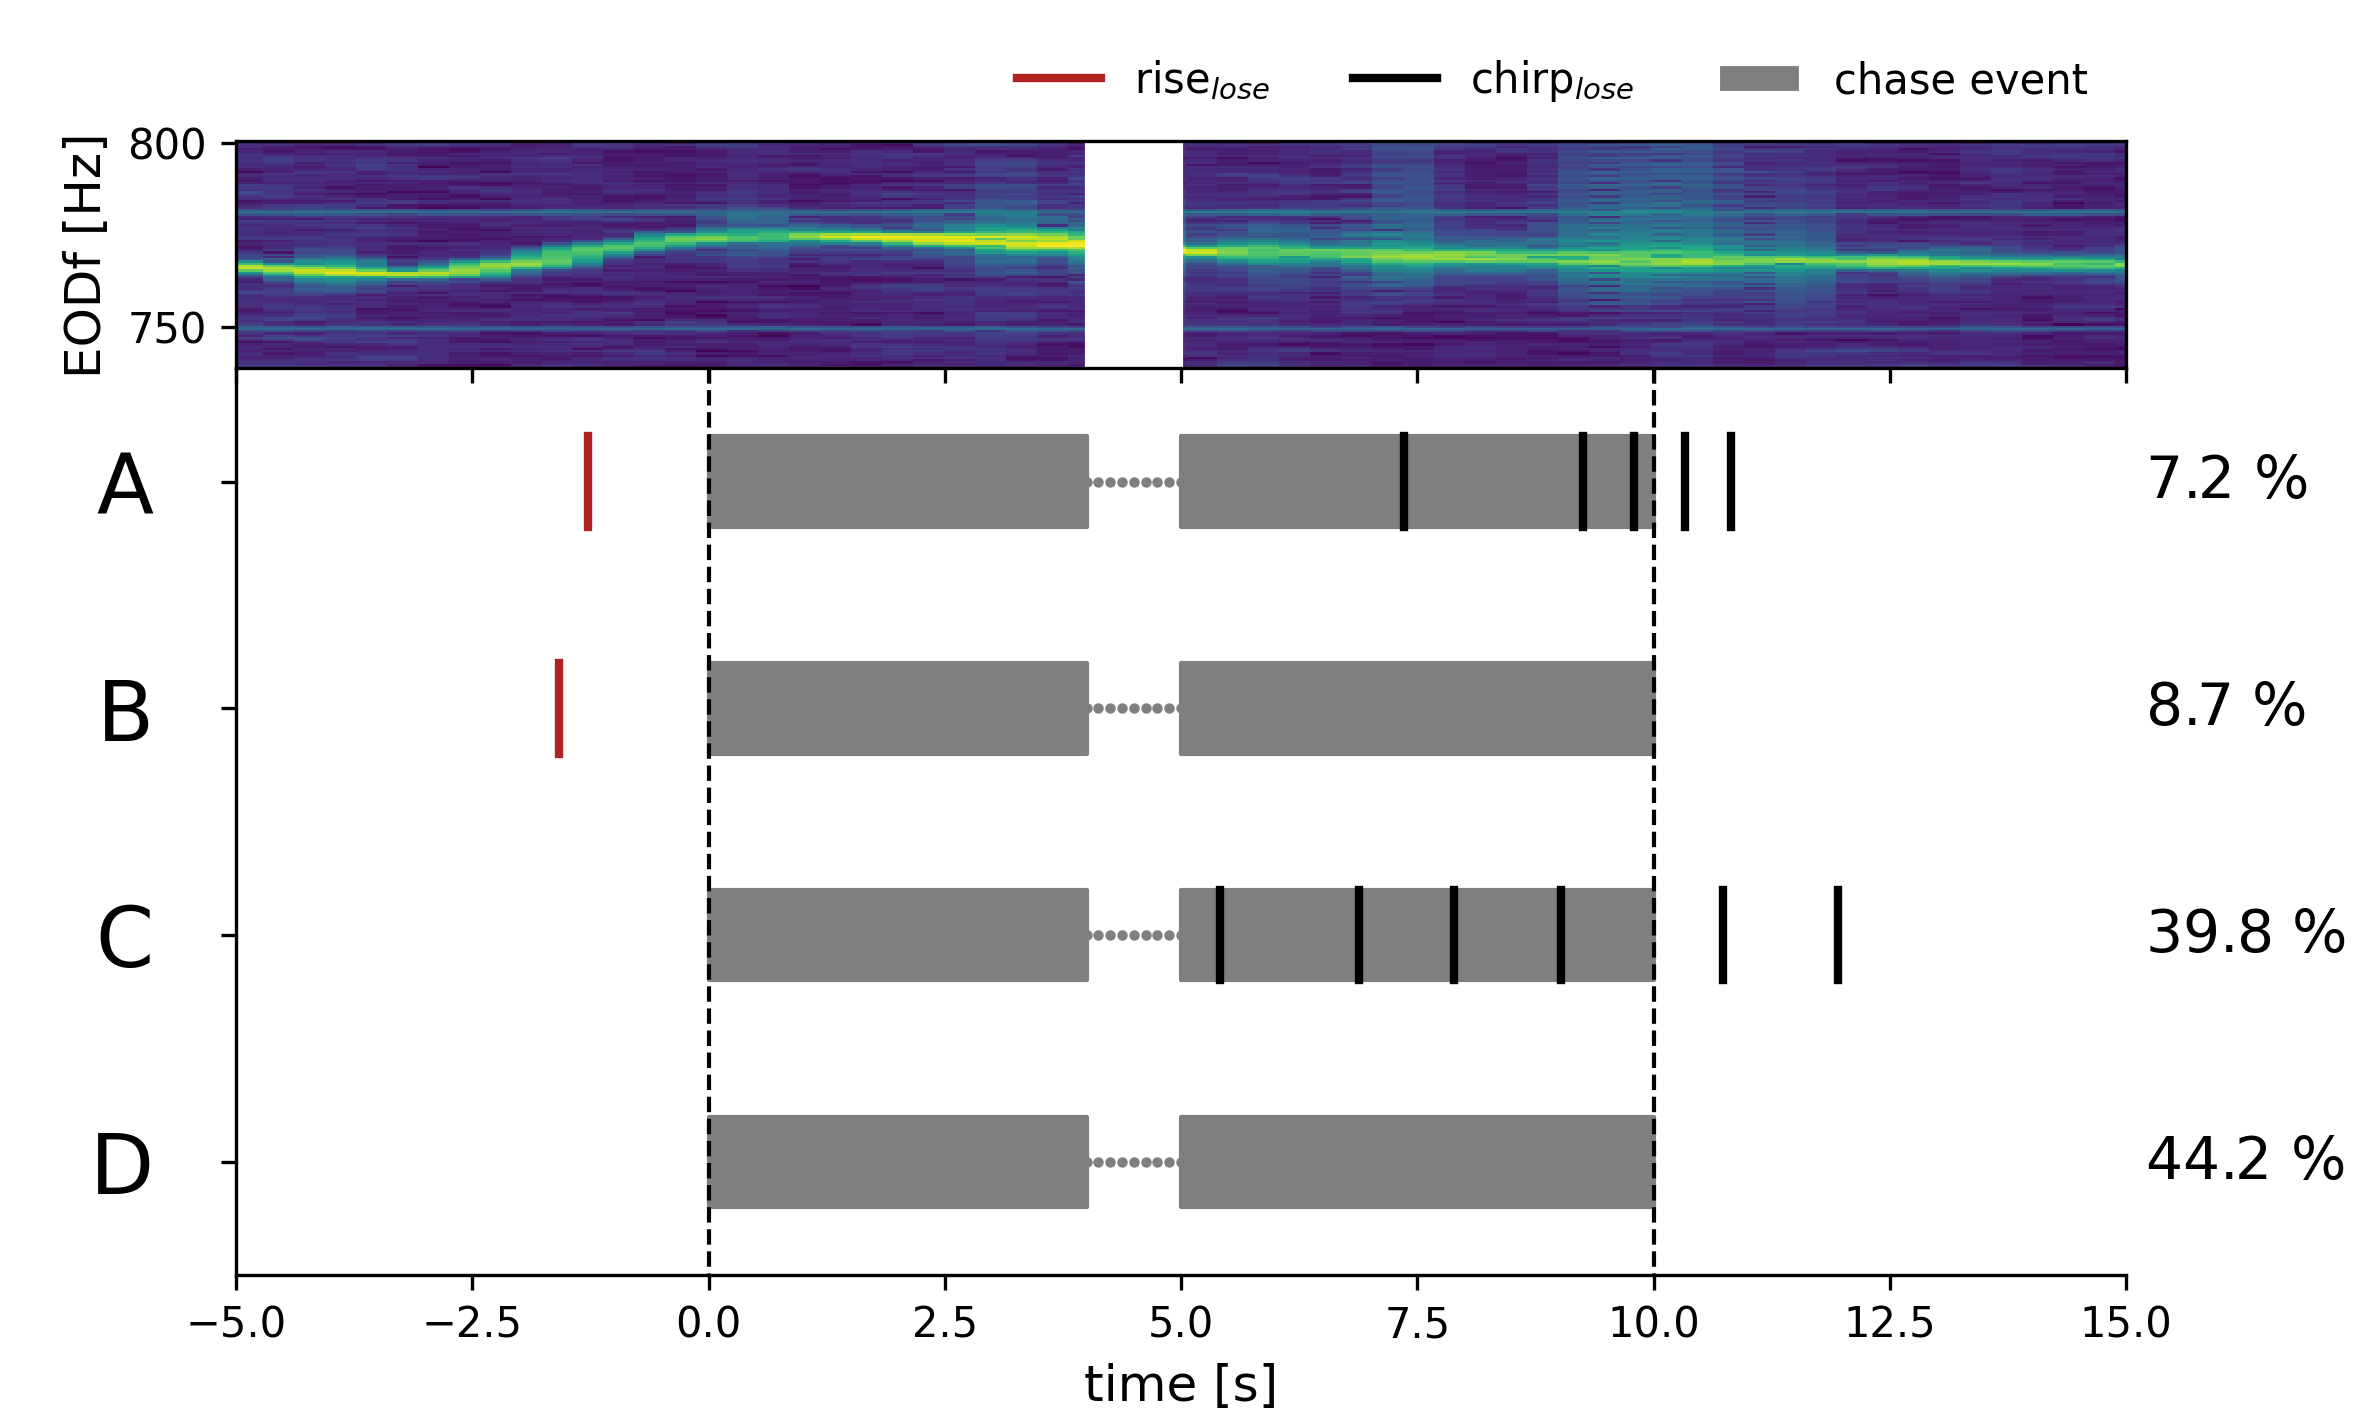
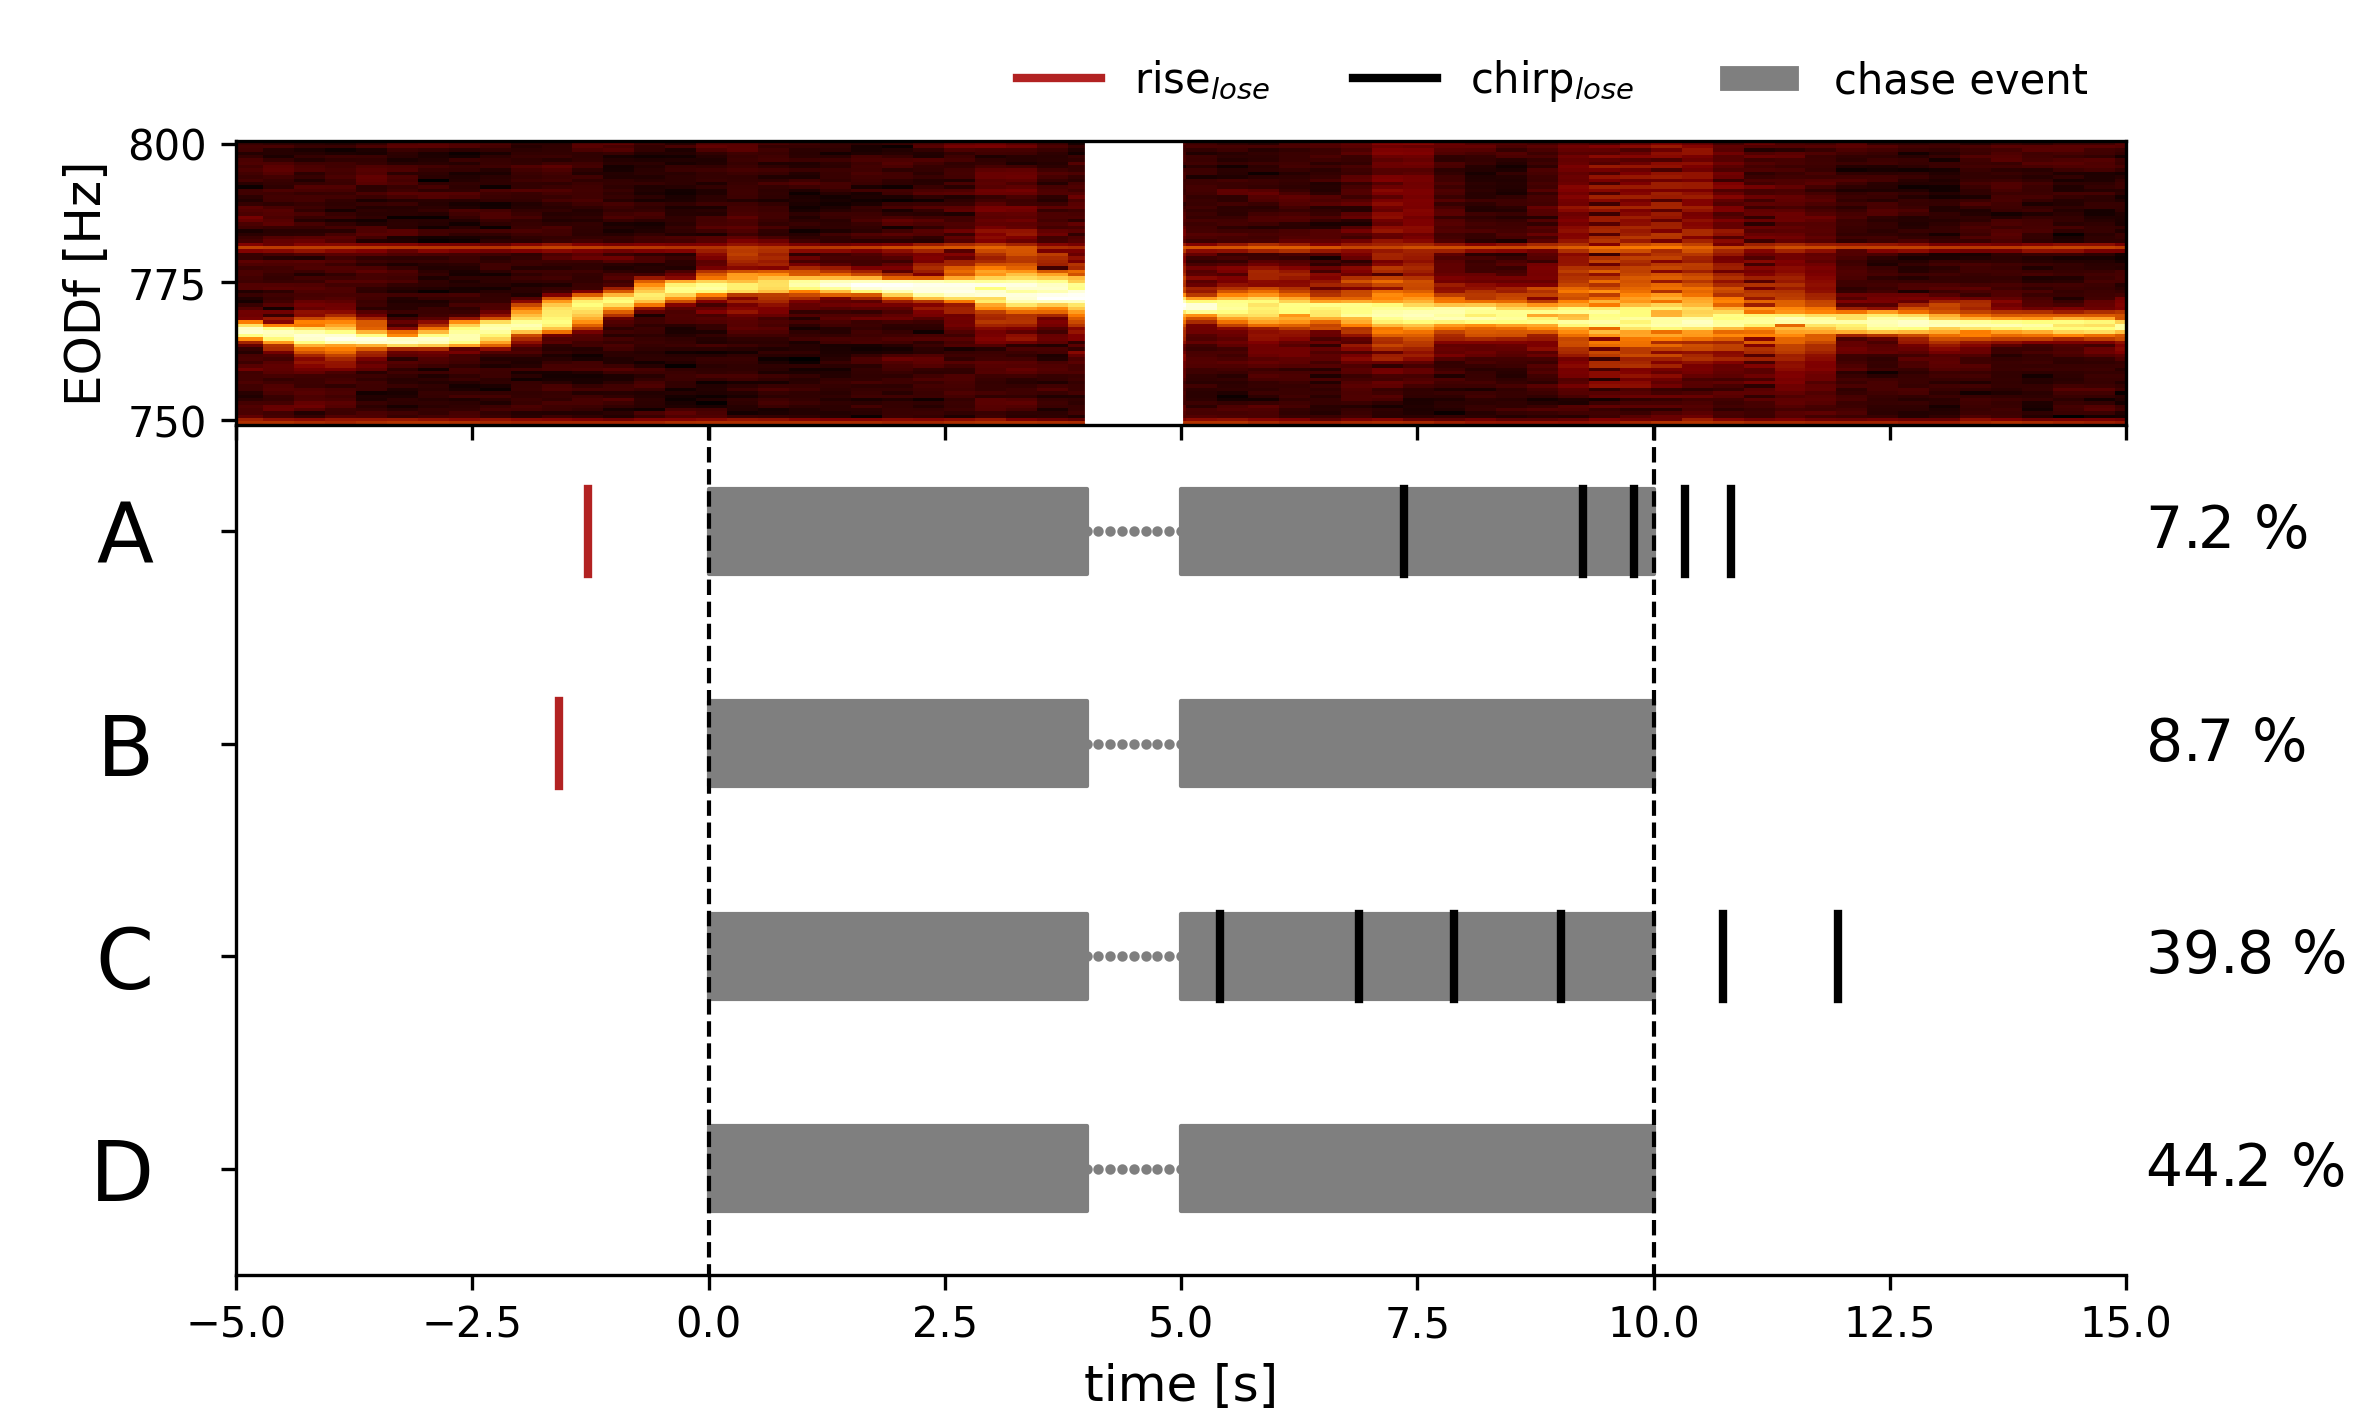
stuff with figures and videos

diff --git a/code/ethogram.py b/code/ethogram.py
@@ -111,8 +111,14 @@ def plot_mixed_transition_diagram(og_matrix_origin, og_matrix_target, labels, no
         matrix_origin[matrix_origin <= threshold] = 0
         matrix_target[matrix_target <= threshold] = 0
         helper_maks = matrix_origin >= matrix_target
-        matrix_origin[~helper_maks] = 0
+
+        # matrix_origin[~helper_maks] = 0
         matrix_target[helper_maks] = 0
+
+        # embed()
+        # quit()
+        matrix_origin[(matrix_origin == 0) & (matrix_target >= 5)] = 5
+
         matrix_origin_prev = np.copy(matrix_origin)
         matrix_target_prev = np.copy(matrix_target)
 
@@ -157,22 +163,23 @@ def plot_mixed_transition_diagram(og_matrix_origin, og_matrix_target, labels, no
         matrix_target_prev[~old_mask] = 0
 
         matrix_origin = np.around(matrix_origin, decimals=1)
-        matrix_target = np.around(matrix_target, decimals=1)
+        # matrix_target = np.around(matrix_target, decimals=1)
         matrix_origin_prev = np.around(matrix_origin_prev, decimals=1)
-        matrix_target_prev = np.around(matrix_target_prev, decimals=1)
+        # matrix_target_prev = np.around(matrix_target_prev, decimals=1)
 
         Graph = nx.from_numpy_array(matrix_origin, create_using=nx.DiGraph)
-        Graph2 = nx.from_numpy_array(matrix_target, create_using=nx.DiGraph)
+        # Graph2 = nx.from_numpy_array(matrix_target, create_using=nx.DiGraph)
         Graph_prev = nx.from_numpy_array(matrix_origin_prev, create_using=nx.DiGraph)
-        Graph2_prev = nx.from_numpy_array(matrix_target_prev, create_using=nx.DiGraph)
+        # Graph2_prev = nx.from_numpy_array(matrix_target_prev, create_using=nx.DiGraph)
 
         node_labels = dict(zip(Graph, labels))
 
-
+        # embed()
+        # quit()
         edge_labels = nx.get_edge_attributes(Graph, 'weight')
-        edge_labels2 = nx.get_edge_attributes(Graph2, 'weight')
+        # edge_labels2 = nx.get_edge_attributes(Graph2, 'weight')
         edge_labels_prev = nx.get_edge_attributes(Graph_prev, 'weight')
-        edge_labels2_prev = nx.get_edge_attributes(Graph2_prev, 'weight')
+        # edge_labels2_prev = nx.get_edge_attributes(Graph2_prev, 'weight')
 
         positions = nx.circular_layout(Graph)
         positions2 = nx.circular_layout(Graph)
@@ -183,53 +190,55 @@ def plot_mixed_transition_diagram(og_matrix_origin, og_matrix_target, labels, no
         nx.draw_networkx_nodes(Graph, pos=positions, node_size=node_size, ax=ax, alpha=0.5, node_color=np.array(color_palet)[:len(node_size)])
         nx.draw_networkx_labels(Graph, pos=positions2, labels=node_labels, ax=ax)
 
-        edge_width = np.array([x / 5 for x in [*edge_labels.values()]])
-        edge_width2 = np.array([x / 5 for x in [*edge_labels2.values()]])
-        edge_width_prev = np.array([x / 5 for x in [*edge_labels_prev.values()]])
-        edge_width2_prev = np.array([x / 5 for x in [*edge_labels2_prev.values()]])
+        # edge_width = np.array([(x / 5) for x in [*edge_labels.values()]])
+        edge_width = np.array([np.log(x) for x in [*edge_labels.values()]])
+        # edge_width2 = np.array([x / 5 for x in [*edge_labels2.values()]])
+        # edge_width_prev = np.array([(x / 5) for x in [*edge_labels_prev.values()]])
+        edge_width_prev = np.array([np.log(x) for x in [*edge_labels_prev.values()]])
+        # edge_width2_prev = np.array([x / 5 for x in [*edge_labels2_prev.values()]])
 
         edge_width[edge_width >= 6] = 6
-        edge_width2[edge_width2 >= 6] = 6
+        # edge_width2[edge_width2 >= 6] = 6
         edge_width_prev[edge_width_prev >= 6] = 6
-        edge_width2_prev[edge_width2_prev >= 6] = 6
+        # edge_width2_prev[edge_width2_prev >= 6] = 6
 
-        if len(edge_labels2) >= 1:
+        if len(edge_labels) >= 1:
             if color_by_origin:
-                edge_colors = np.array(color_palet)[np.array([*edge_labels2.keys()], dtype=int)[:, 0]]
+                edge_colors = np.array(color_palet)[np.array([*edge_labels.keys()], dtype=int)[:, 0]]
             elif color_by_target:
-                edge_colors = np.array(color_palet)[np.array([*edge_labels2.keys()], dtype=int)[:, 1]]
+                edge_colors = np.array(color_palet)[np.array([*edge_labels.keys()], dtype=int)[:, 1]]
             else:
                 edge_colors = 'k'
 
-            nx.draw_networkx_edges(Graph2, pos=positions, node_size=node_size, width=edge_width2,
-                                   arrows=True, arrowsize=20, arrowstyle='->',
-                                   min_target_margin=25, min_source_margin=25, connectionstyle="arc3, rad=0.05",
-                                   # rad=0.025"
-                                   ax=ax, edge_color=edge_colors)
+            # nx.draw_networkx_edges(Graph2, pos=positions, node_size=node_size, width=edge_width2,
+            #                        arrows=True, arrowsize=20, arrowstyle='->',
+            #                        min_target_margin=25, min_source_margin=25, connectionstyle="arc3, rad=0.05",
+            #                        # rad=0.025"
+            #                        ax=ax, edge_color=edge_colors)
 
-        if len(edge_labels2_prev) >= 1:
+        if len(edge_labels_prev) >= 1:
             if color_by_origin:
-                edge_colors_prev = np.array(color_palet)[np.array([*edge_labels2_prev.keys()], dtype=int)[:, 0]]
+                edge_colors_prev = np.array(color_palet)[np.array([*edge_labels_prev.keys()], dtype=int)[:, 0]]
             elif color_by_target:
-                edge_colors_prev = np.array(color_palet)[np.array([*edge_labels2_prev.keys()], dtype=int)[:, 1]]
+                edge_colors_prev = np.array(color_palet)[np.array([*edge_labels_prev.keys()], dtype=int)[:, 1]]
             else:
                 edge_colors_prev = 'k'
 
 
-            nx.draw_networkx_edges(Graph2_prev, pos=positions, node_size=node_size, width=edge_width2_prev,
-                                   arrows=True, arrowsize=20, arrowstyle='->',
-                                   min_target_margin=25, min_source_margin=25, connectionstyle="arc3, rad=0.05", # rad=0.025"
-                                   ax=ax, edge_color=edge_colors_prev, alpha=.25)
+            # nx.draw_networkx_edges(Graph2_prev, pos=positions, node_size=node_size, width=edge_width2_prev,
+            #                        arrows=True, arrowsize=20, arrowstyle='->',
+            #                        min_target_margin=25, min_source_margin=25, connectionstyle="arc3, rad=0.05", # rad=0.025"
+            #                        ax=ax, edge_color=edge_colors_prev, alpha=.25)
 
         nx.draw_networkx_edges(Graph, pos=positions, node_size=node_size, width=edge_width,
                                arrows=True, arrowsize=20, arrowstyle='->',
                                min_target_margin=25, min_source_margin=25, connectionstyle="arc3, rad=0.05",
-                               ax=ax, edge_color='k')
-
-        nx.draw_networkx_edges(Graph_prev, pos=positions, node_size=node_size, width=edge_width_prev,
-                               arrows=True, arrowsize=20, arrowstyle='->',
-                               min_target_margin=25, min_source_margin=25, connectionstyle="arc3, rad=0.05",
-                               ax=ax, edge_color='k', alpha=.25)
+                               ax=ax, edge_color=edge_colors)
+        if len(edge_labels_prev) > 0:
+            nx.draw_networkx_edges(Graph_prev, pos=positions, node_size=node_size, width=edge_width_prev,
+                                   arrows=True, arrowsize=20, arrowstyle='->',
+                                   min_target_margin=25, min_source_margin=25, connectionstyle="arc3, rad=0.05",
+                                   ax=ax, edge_color=edge_colors_prev, alpha=.25)
 
         ax.spines["top"].set_visible(False)
         ax.spines["bottom"].set_visible(False)
@@ -242,7 +251,7 @@ def plot_mixed_transition_diagram(og_matrix_origin, og_matrix_target, labels, no
 
         old_mask += mask
 
-        plt.savefig(os.path.join(os.path.split(__file__)[0], 'figures', 'markov', f'marcov_buildup_{scenario}' + '.png'), dpi=300)
+        plt.savefig(os.path.join(os.path.split(__file__)[0], 'figures', 'markov', f'marcov_buildup_1_{scenario}' + '.png'), dpi=300)
         plt.close()
     # plt.show()
 
@@ -302,19 +311,23 @@ def fine_spec_plot(ax, example_1_path, trial_summary, example_ag_on_off):
     # plt.pcolormesh(artificial_t_axis, artificial_f_axis, decibel(spec), vmin=-100, vmax=-50)
     lose_freq_in_snippet = fund_v[(ident_v == lose_id) & (times[idx_v] > example_ag_on_off[0][0]-5) & (times[idx_v] < example_ag_on_off[0][1]+5)]
     max_f, min_f = np.max(lose_freq_in_snippet) + 25, np.min(lose_freq_in_snippet) - 25
+    min_f = 750
 
+    # print(example_1_path, example_ag_on_off[0][0])
     f_idx0 = np.where(spec_freqs <= min_f)[0][-1]
     f_idx1 = np.where(spec_freqs >= max_f)[0][0]
 
     t_idx0 = np.where(fine_times <= example_ag_on_off[0][0] - 5)[0][-1]
     t_idx1 = np.where(fine_times >= example_ag_on_off[0][0] + 4)[0][0]
     ax.pcolormesh(fine_times[t_idx0:t_idx1+1] - example_ag_on_off[0][0], spec_freqs[f_idx0:f_idx1+1],
-                  decibel(fine_spec[f_idx0:f_idx1+1, t_idx0:t_idx1+1]))
+                  decibel(fine_spec[f_idx0:f_idx1+1, t_idx0:t_idx1+1]), cmap='afmhot')
 
     t_idx0 = np.where(fine_times <= example_ag_on_off[0][1] - 5)[0][-1]
     t_idx1 = np.where(fine_times >= example_ag_on_off[0][1] + 5)[0][0]
     ax.pcolormesh(fine_times[t_idx0:t_idx1+1] - example_ag_on_off[0][1] + 10, spec_freqs[f_idx0:f_idx1+1],
-                  decibel(fine_spec[f_idx0:f_idx1+1, t_idx0:t_idx1+1]))
+                  decibel(fine_spec[f_idx0:f_idx1+1, t_idx0:t_idx1+1]), cmap='afmhot')
+
+    ax.set_yticks([750, 775, 800])
 
     ax.fill_between([4, 5], [spec_freqs[f_idx0], spec_freqs[f_idx0]], [spec_freqs[f_idx1], spec_freqs[f_idx1]], color='white')
 
@@ -466,7 +479,7 @@ def main(base_path):
 
     ###  agonistic categorie example figure
     fig = plt.figure(figsize=(20 / 2.54, 12 / 2.54))
-    gs = gridspec.GridSpec(2, 1, left=0.1, bottom=0.1, right=0.9, top=0.9, height_ratios=[1, 4], hspace=0)
+    gs = gridspec.GridSpec(2, 1, left=0.1, bottom=0.1, right=0.9, top=0.9, height_ratios=[1, 3], hspace=0)
     ax = fig.add_subplot(gs[1, 0])
     ax_spec = fig.add_subplot(gs[0, 0], sharex=ax)
     plt.setp(ax_spec.get_xticklabels(), visible=False)
@@ -495,6 +508,8 @@ def main(base_path):
     # plot correct spectrogram
     fine_spec_plot(ax_spec, example_1_path, trial_summary, example_ag_on_off)
 
+    # for a in [ax, ax_spec]:
+    #     a.tick_params(labelsize=10)
     ##########################################
 
     ax.plot([0, 0], [0.5, 5], '--', color='k', lw=1)
@@ -508,6 +523,7 @@ def main(base_path):
     ax.set_xlabel('time [s]', fontsize=12)
     ax.tick_params(axis='y', labelsize=20)
     ax.tick_params(axis = 'x', labelsize=10)
+    ax_spec.tick_params(labelsize=10)
 
 
     legend_elements = [Line2D([0], [0], color='firebrick', lw=2, label=r'rise$_{lose}$'),
@@ -518,7 +534,7 @@ def main(base_path):
     ax_spec.set_ylabel('EODf [Hz]', fontsize=12)
     ax.spines[['right', 'top']].set_visible(False)
 
-    plt.savefig(os.path.join(os.path.split(__file__)[0], 'figures', 'markov', 'agonistic_categories' + '.png'), dpi=300)
+    plt.savefig(os.path.join(os.path.split(__file__)[0], 'figures', 'markov', 'agonistic_catego ries' + '.png'), dpi=300)
     plt.show()
 
 
@@ -598,7 +614,7 @@ def main(base_path):
     plt.show()
 
     plot_mixed_transition_diagram(mm_origin, mm_target, individual_event_labels, ball_size,
-                                  color_by_target=True, color_palet=glob_colors_new)
+                                  color_by_origin=True, color_palet=glob_colors_new)
 
     for i, (marcov_matrix, event_counts) in enumerate(zip(all_marcov_matrix, all_event_counts)):
         fig, ax = plt.subplots(figsize=(21 / 2.54, 19 / 2.54))

diff --git a/code/event_videos.py b/code/event_videos.py
@@ -51,8 +51,14 @@ def main(folder, dt):
     for rise_time in rise_times:
         relevant_chirps = chirp_times[((chirp_times - rise_time) > 0 ) &
                                       ((chirp_times - rise_time) < dt * 3)]
+
         if len(relevant_chirps) == 0:
+            name_appendix = '_rise_only'
+            pass
+        else:
+            name_appendix = ''
             continue
+            # continue
 
         rel_chirp_time = relevant_chirps - rise_time
 
@@ -320,7 +326,7 @@ def main(folder, dt):
         # video_name = ("./rise_video/%s_%2.f:%2.f:%2.f.mp4" % (win_lose_str, HH, MM, SS)).replace(' ', '0')
         # command = "ffmpeg -r 25 -i './rise_video/frame%4d.jpg' -vf 'pad=ceil(iw/2)*2:ceil(ih/2)*2' -vcodec libx264 -y -an"
 
-        video_name = os.path.join(create_video_path, ("%s_%2.f:%2.f:%2.f.mp4" % (win_lose_str, HH, MM, SS)).replace(' ', '0'))
+        video_name = os.path.join(create_video_path, ("%s%s_%2.f:%2.f:%2.f.mp4" % (win_lose_str, name_appendix, HH, MM, SS)).replace(' ', '0'))
         command1 = "ffmpeg -r 25 -i"
         frames_path = '"%s"' % os.path.join(create_video_path, "frame%4d.jpg")
         command2 = "-vf 'pad=ceil(iw/2)*2:ceil(ih/2)*2' -vcodec libx264 -y -an"
